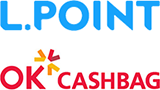
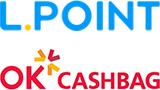
엘포인트/엘페이 로고 변경

diff --git a/html/main_renew.html b/html/main_renew.html
@@ -61,7 +61,7 @@
                     <div class="category-wrapper" style="display: none;">
                         <div class="category-list">
                             <!-- 아래 리스트에 출력될 카테고리의 갯수를 인라인스타일에 입력해 주세요. -->
-                            <ul style="width: calc(18.5185185185vw * 7);">
+                            <ul style="width: calc(18.5185185185vw * 8);">
                                 <li>
                                     <!-- 기본 선택이 필요하다면, on 클래스를 넣어주세요. 필요없다면, 클래스를 넣지 마세요. -->
                                     <a href="#">
@@ -124,6 +124,15 @@
                                             <img src="/images/category7_on.png">
                                         </p>
                                         <span>교환권</span>
+                                    </a>
+                                </li>
+                                <li>
+                                    <a href="#">
+                                        <p>
+                                            <img src="/images/category9.png">
+                                            <img src="/images/category9_on.png">
+                                        </p>
+                                        <span>기타</span>
                                     </a>
                                 </li>
                             </ul>

diff --git a/css/omni_common.css b/css/omni_common.css
@@ -690,7 +690,7 @@ a.btn-type12{display:block; padding:2.9629vw 0 2.9629vw 0; font-size:4.074vw; co
 .tag.black { background: #000; }
 .tag span { display: block; color: #fff; font-family:'notokr-medium'; font-size: 2.40740740741vw; line-height: 3.33333333333vw; }
 .tag img { display: block; }
-.tag.lpoint img { height: 1.2037037037vw; }
+.tag.lpoint img { height: 1.5vw; }
 .item-type5 .item-text { padding-top: 5vw; }
 .item-type5 .item-text .tag-row { position: absolute; top: 0; }
 

diff --git a/css/common_new.css b/css/common_new.css
@@ -1816,7 +1816,7 @@ table.tbtype1.tdL td{
 }
 .tab_common_nav a.lpoint img {
     width: auto;
-    height: 2.8vw;
+    height: 3.5vw;
     vertical-align: middle;
 }
 .tab_common_nav a.lpoint.on {
@@ -1830,7 +1830,7 @@ table.tbtype1.tdL td{
 }
 .tab_common_nav a.lpay img {
     width: auto;
-    height: 3.9vw;
+    height: 3.5vw;
     vertical-align: middle;
 }
 .tab_common_nav a.lpay.on {
